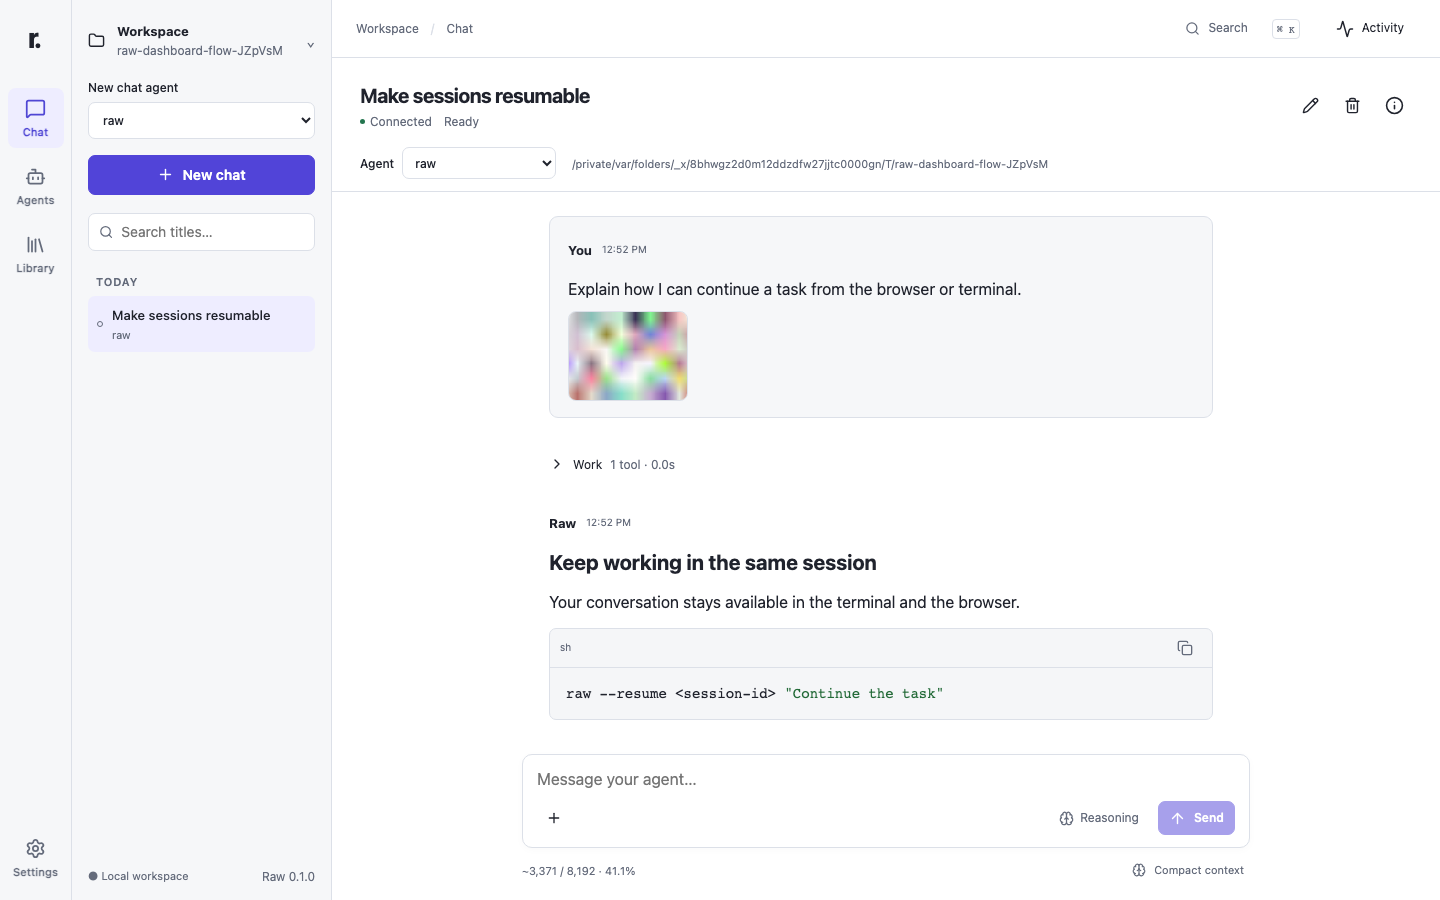
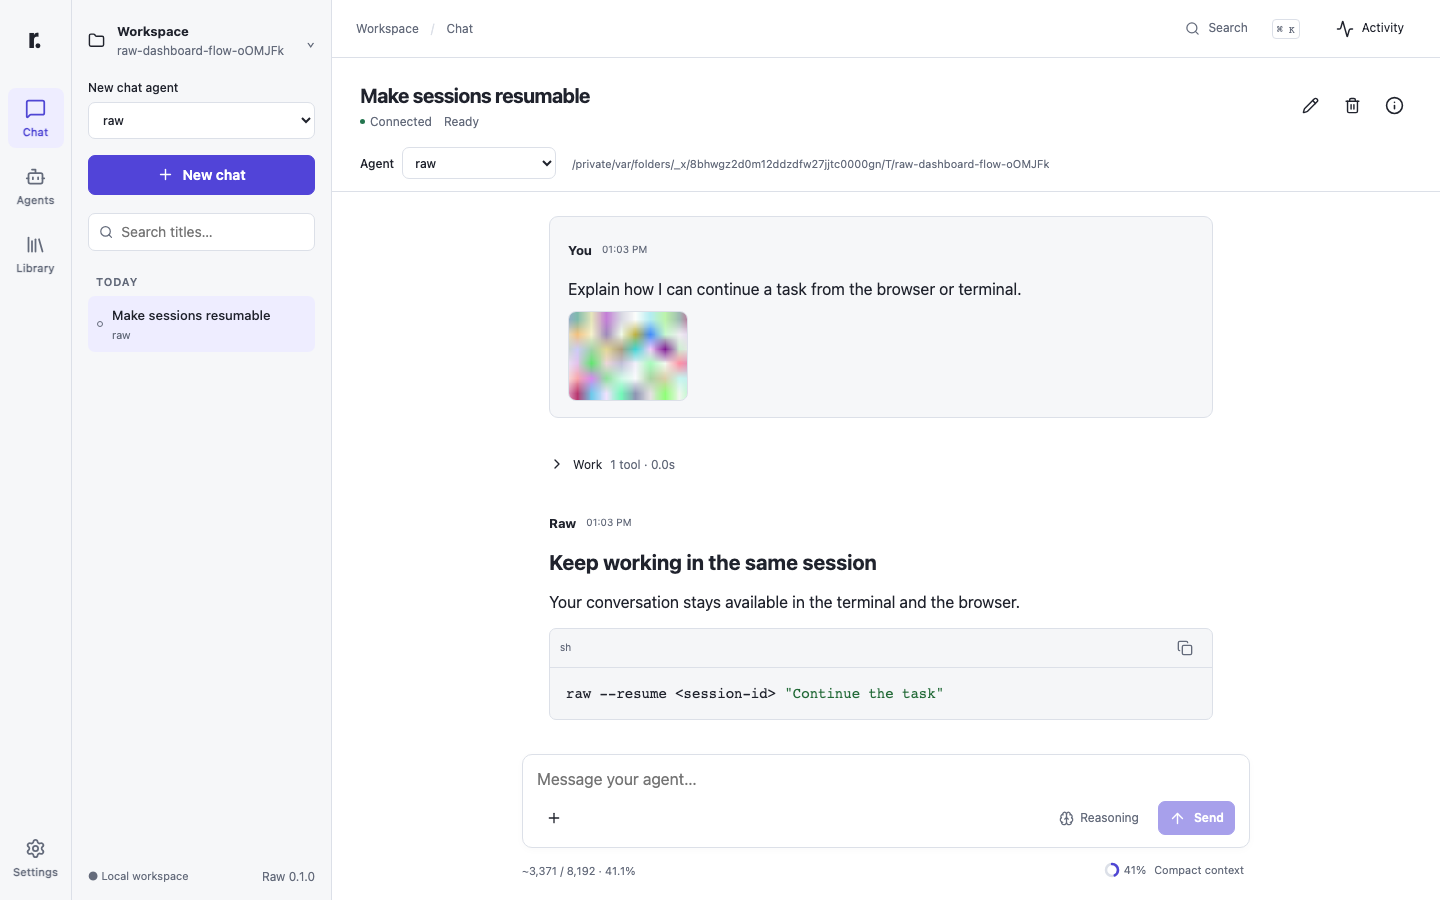
feat: show context usage as a progress ring on the compact button

diff --git a/web/src/composer/ContextRing.tsx b/web/src/composer/ContextRing.tsx
@@ -1,0 +1,26 @@
+/** Circular progress of the context window used; the number is the same percentage the footer text reports. */
+export function ContextRing({ percent }: { percent: number | undefined }) {
+  const radius = 6;
+  const circumference = 2 * Math.PI * radius;
+  const known = percent !== undefined && Number.isFinite(percent);
+  const used = known ? Math.min(100, Math.max(0, percent)) : 0;
+  return (
+    <span className="context-ring">
+      <svg width="16" height="16" viewBox="0 0 16 16" aria-hidden="true">
+        <circle className="ring-track" cx="8" cy="8" r={radius} />
+        {known && (
+          <circle
+            className={`ring-fill ${used >= 90 ? "high" : ""}`}
+            cx="8"
+            cy="8"
+            r={radius}
+            strokeDasharray={circumference}
+            strokeDashoffset={circumference * (1 - used / 100)}
+            transform="rotate(-90 8 8)"
+          />
+        )}
+      </svg>
+      {known && <span aria-hidden="true">{Math.round(used)}%</span>}
+    </span>
+  );
+}

diff --git a/web/src/chat.tsx b/web/src/chat.tsx
@@ -1,7 +1,6 @@
 import { useEffect, useLayoutEffect, useMemo, useRef, useState } from "react";
 import {
   ArrowDown,
-  Brain,
   Check,
   Info,
   Pencil,
@@ -13,6 +12,7 @@ import type { SessionOperation } from "../../src/sessions/operations.js";
 import type { SessionSummary } from "../../src/sessions/store.js";
 import type { Preferences } from "./preferences.js";
 import { api, ApiError, errorText } from "./api.js";
+import { ContextRing } from "./composer/ContextRing.js";
 import { RequestControls } from "./composer/RequestControls.js";
 import { useRequestChoice } from "./composer/useRequestChoice.js";
 import type { RequestControlMeta } from "./composer/request-choice.js";
@@ -549,7 +549,7 @@ export function Chat({
                   void send("compact");
                 }}
               >
-                <Brain size={14} aria-hidden="true" />
+                <ContextRing percent={context?.percentage ?? undefined} />
                 Compact context
               </button>
             </div>

diff --git a/web/src/styles.css b/web/src/styles.css
@@ -2170,3 +2170,27 @@ summary::-webkit-details-marker {
     max-width: 9rem;
   }
 }
+
+.context-ring {
+  display: inline-flex;
+  align-items: center;
+  gap: 4px;
+}
+.context-ring svg {
+  flex: none;
+}
+.ring-track,
+.ring-fill {
+  fill: none;
+  stroke-width: 2.5;
+}
+.ring-track {
+  stroke: var(--border);
+}
+.ring-fill {
+  stroke: var(--accent);
+  stroke-linecap: round;
+}
+.ring-fill.high {
+  stroke: #b12d42;
+}
